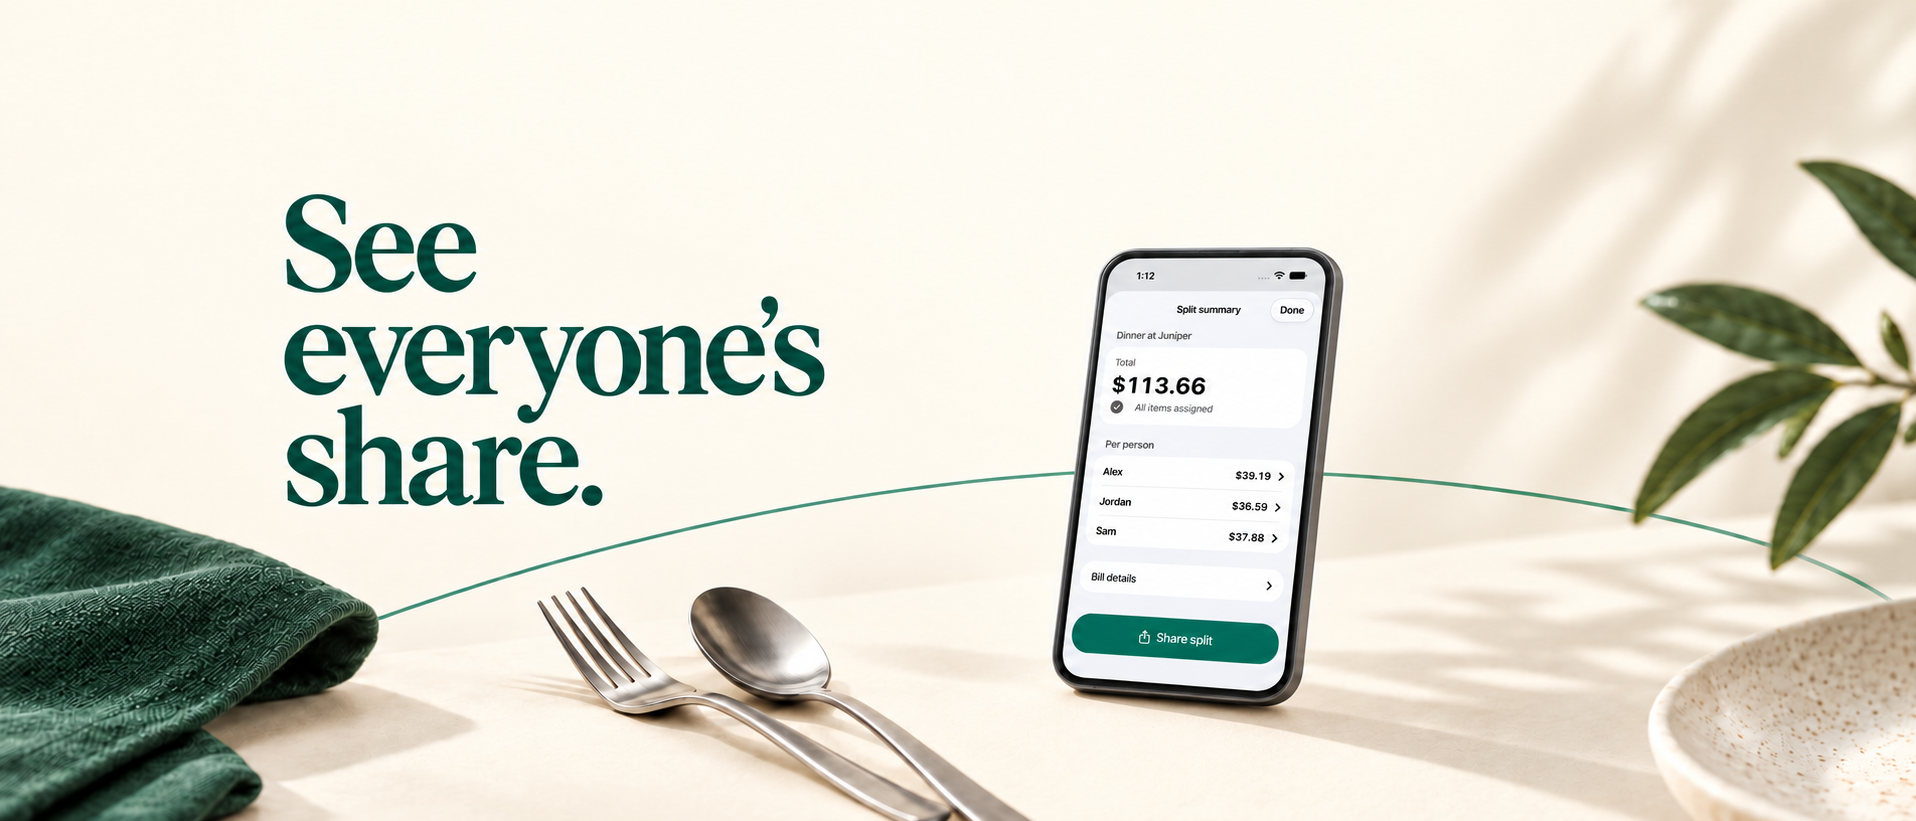
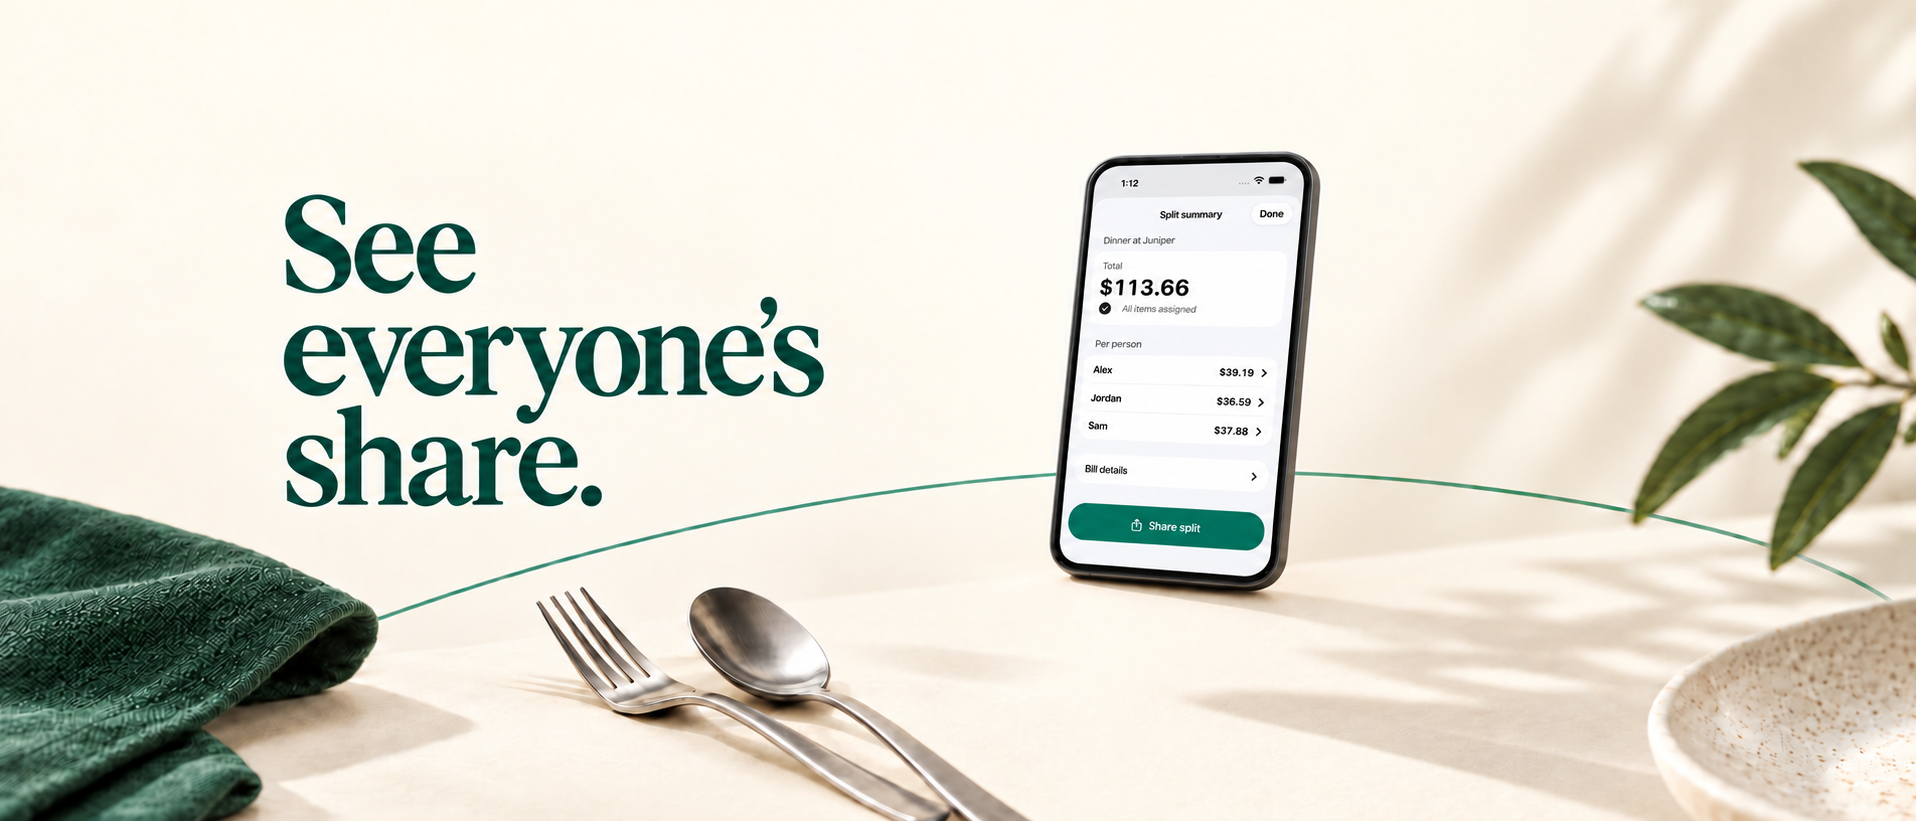
Complete editorial uploads and restore review readiness [skip ci]

diff --git a/docs/app-store-submission.md b/docs/app-store-submission.md
@@ -2,7 +2,7 @@
 
 Updated on 14 October 2026 for Split My Meal, App Store Connect app 6575395076, version 2.0.0. Build 3 includes the final contrast and large-text repairs. The draft is configured for manual release. Preparing the draft does not submit it for review or release it.
 
-The authenticated draft now has build 3 selected and saved, with five refreshed iPhone and five refreshed iPad screenshots. Eleven legacy display galleries inherit the new screenshots with no custom overrides; the optional iPhone Duo gallery is empty, and the actual uploaded SDK is iOS 27.0. Both corrected AAC previews now load from Apple, and their opening posters have been saved. Both previews played to the end without a media error. After the poster choices were saved, the completeness check passed. The later user-requested editorial artwork update returned the unsubmitted version to editing: Search artwork is saved, while the tablet-safe Header replacement and final readiness recheck are waiting for the Mac to be unlocked. Apple poster generation and stored-frame readback remain pending. The [current provider proof](evidence/app-store-production3-provider-proof.json) records this state; the [initial blocked draft](evidence/app-store-production3-provider-initial-blocked-proof.json) retains the earlier lock, expired-session and signing barriers. Submit for Review has not been clicked.
+The authenticated draft now has build 3 selected and saved, with five refreshed iPhone and five refreshed iPad screenshots. Eleven legacy display galleries inherit the new screenshots with no custom overrides; the optional iPhone Duo gallery is empty, and the actual uploaded SDK is iOS 27.0. Both corrected AAC previews now load from Apple, and their opening posters have been saved. Both previews played to the end without a media error. After the poster choices were saved, the completeness check passed. The later editorial update is complete: Header and Search artwork are saved, and the final completeness check restored Ready for Review with item 2.0.0 (3) ready to submit. Apple poster generation and stored-frame readback remain pending. The [current provider proof](evidence/app-store-production3-provider-proof.json) records this state; the [initial blocked draft](evidence/app-store-production3-provider-initial-blocked-proof.json) retains the earlier lock, expired-session and signing barriers. Submit for Review has not been clicked.
 
 ## Build and product page
 
@@ -26,7 +26,7 @@ The [initial video-only uploads](evidence/app-store-preview-first-upload-failure
 
 ## Editorial creative assets
 
-The new [Header and Search artwork](app-store-editorial/README.md) uses dimensional generic devices, cream and emerald, serif headlines and restrained dining props. Independent visual and copy reviews verified the visible split labels and amounts. Search artwork is saved and has been inspected in Apple’s iPhone light and iPad light/dark reference previews. An initial iPad Header crop cut the larger device and its action; the corrected local Header keeps a smaller device in the central vertical area. Its replacement upload and placement check are pending because the Mac locked before the native file picker could send it. The earlier Header remains recoverable in the Asset Library. The [editorial manifest](app-store-editorial/manifest.json) records exact exports, generated masters, source capture, observed crop and current provider state. Generated perspective UI is not pixel-identical to the native capture.
+The new [Header and Search artwork](app-store-editorial/README.md) uses dimensional generic devices, cream and emerald, serif headlines and restrained dining props. Independent visual and copy reviews verified the visible split labels and amounts. Search artwork is saved and has been inspected in Apple’s iPhone light and iPad light/dark reference previews. Two iPad Header checks exposed a clipped device/action. The final higher-positioned device is saved and has been inspected in iPhone light and iPad landscape light/dark reference previews. The lower rim and complete Share split action remain visible. Apple’s floating navigation overlaps part of the depicted status bar/top rim above the app content; the visual reviewer accepted this as a nonblocking overlay tradeoff. Earlier Header assets remain recoverable in the Asset Library. The [editorial manifest](app-store-editorial/manifest.json) records exact exports, generated masters, source capture, observed crop and current provider state. Generated perspective UI is not pixel-identical to the native capture.
 
 ## CloudKit and verification
 

diff --git a/docs/app-store-editorial/README.md b/docs/app-store-editorial/README.md
@@ -13,7 +13,7 @@ Two coordinated creative assets use cream, emerald, tactile dining props, serif 
 
 Independent visual and copy reviews checked the composition, labels and fictional meal amounts: Alex $39.19, Jordan $36.59 and Sam $37.88 total $113.66. The device frame omits physical buttons, sensor housing and brand marks. Fine app text is secondary at search-card size; the short headline carries the message.
 
-The first iPad header preview clipped the larger device and its action, so the selected header uses a smaller device within the central vertical area. [The manifest](manifest.json) records exact masters, exports, the source capture, this correction and provider state. Apple’s browser previews are references and do not establish the final published appearance or App Review approval.
+Both assets are saved in App Store Connect, and version 2.0.0 (3) is Ready for Review; Submit for Review remains untouched. Two iPad header checks revealed clipping, so the final device is smaller and positioned higher. The final iPhone light and iPad landscape light/dark header previews retain the headline, app content, lower rim and complete Share split action. Apple’s floating navigation overlaps only part of the depicted status bar/top rim above the app content; the device is not fully unobstructed. [The manifest](manifest.json) records exact masters, exports, the source capture, this correction and provider state. Apple’s browser previews are references and do not establish the final published appearance or App Review approval.
 
 Generated with the built-in image generation tool. [The prompt set](prompts.json) records art direction and targeted edits. The selected masters are in `sources/`; final exports use macOS image conversion for required dimensions and sRGB. Upsampling does not add native detail.
 
